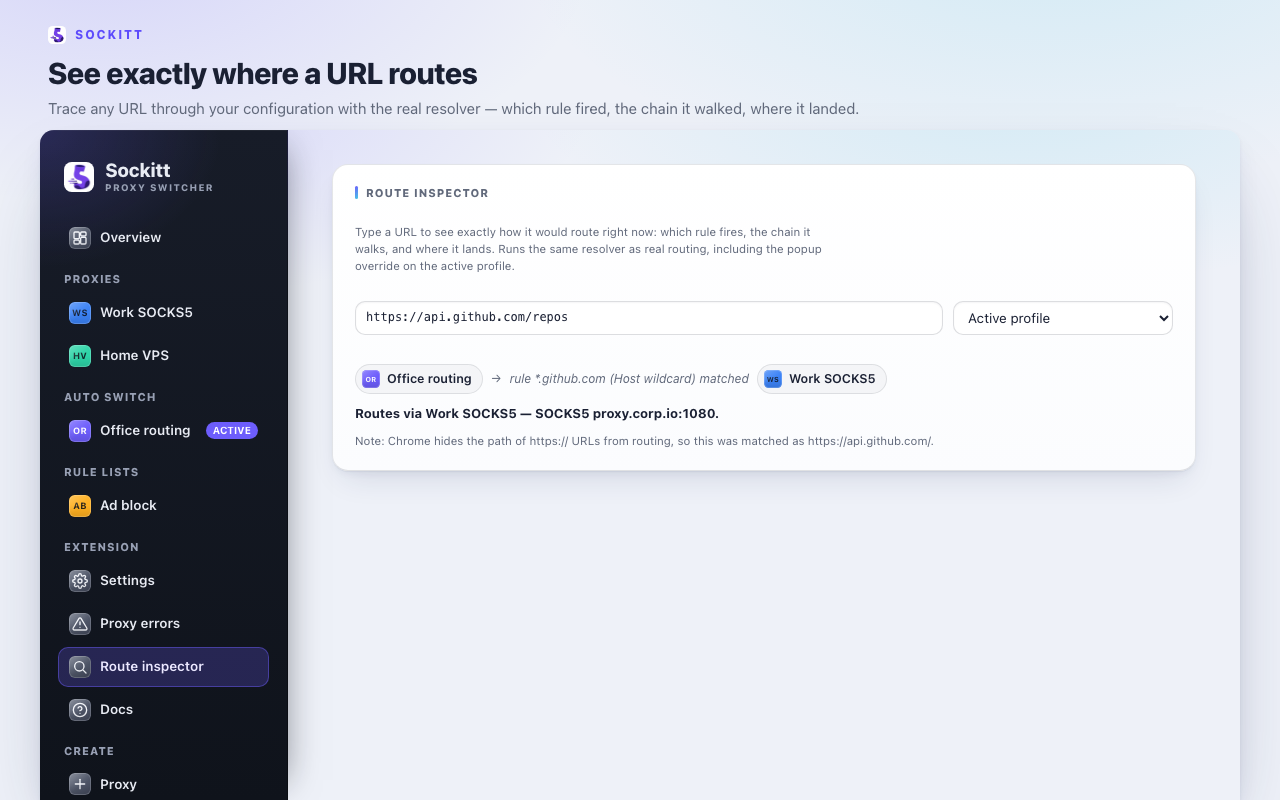
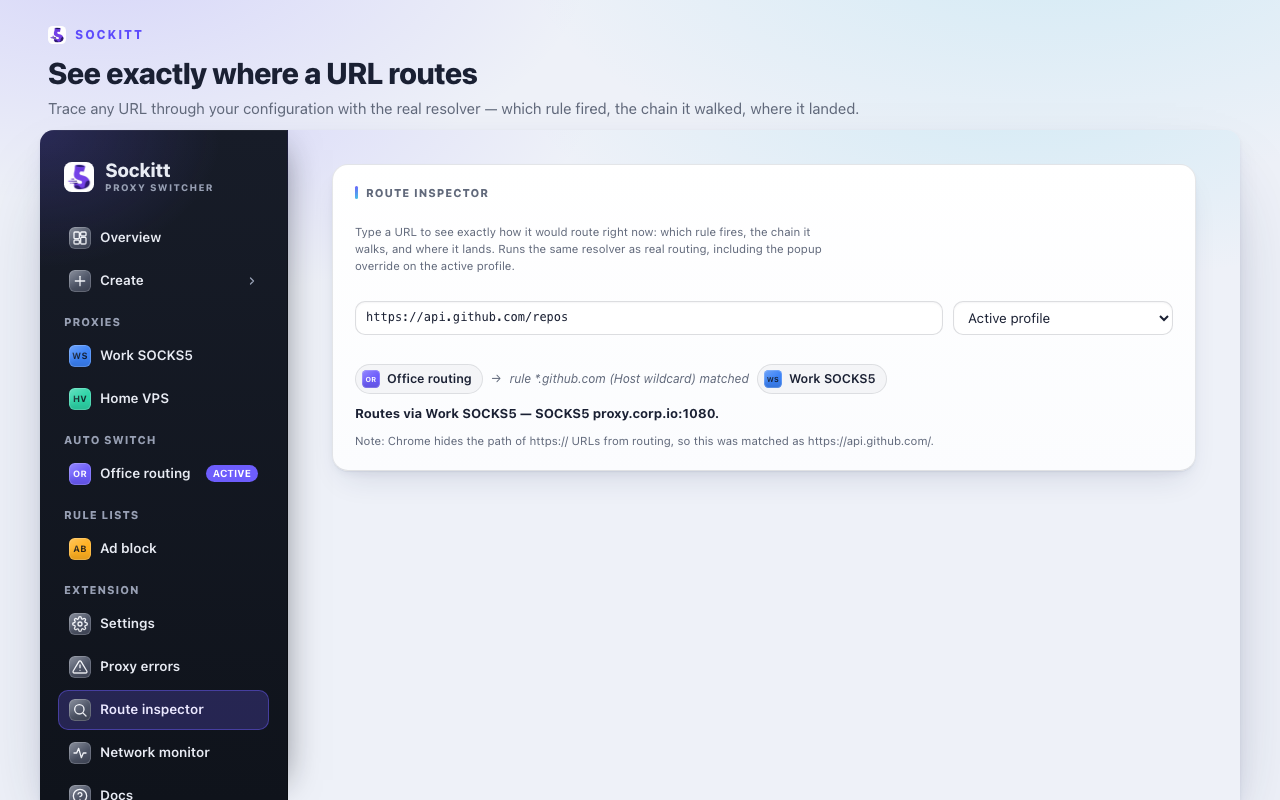
Bring the docs back in line, and stop the worker logging a refusal
The console error first. registerAuthListener tests whether
chrome.webRequest.onAuthRequired exists and then registers it with
asyncBlocking. That test was sound while webRequest only ever arrived
through AUTH_PERMS, which asks for it together with
webRequestAuthProvider — the catch there says as much. The network
monitor broke the pair by asking for webRequest alone, so the worker
registered a blocking listener it had no permission for and Chrome
refused it: "You do not have permission to use blocking webRequest
listeners." On every worker start, and immediately on granting, since
permissions.onAdded re-registers on a webRequest grant.

The monitor asks for both now. It never answers a challenge, but the
provider grants no access on its own and adds no warning the host access
has not already added, and the alternative was worse: the registration
has to happen in the worker's first synchronous turn or Chrome will not
wake it for a 407, and a permission check to guard it is asynchronous.

Then the documentation, which had fallen behind three releases.

PRIVACY.md said request-observing access was used "only to answer
HTTP/HTTPS proxy authentication challenges". That stopped being true when
the monitor shipped, and a privacy policy making a false exclusivity
claim is the worst kind of stale. It now describes what the monitor
observes, that nothing is stored or sent, and that leaving the page ends
it — and the no-browsing-history claim says where the monitor sits
[…]

Changed region(s): [[0.0312, 0.4375, 0.2188, 1.0], [0.0312, 0.3438, 0.1562, 0.4062]]

diff --git a/src/options/docs.ts b/src/options/docs.ts
@@ -177,9 +177,17 @@ function buildDocsPanel(onReleases: () => void): HTMLElement {
           ],
         ],
         [
-          'This session',
+          'Profile timeline',
           [
             'Which profile was active over the course of this browser session, with failures marked on the same time base. Session-scoped, like the error log: it starts fresh with the browser and is never written to your saved configuration.',
+          ],
+        ],
+        [
+          'Try a URL',
+          [
+            'The Route inspector in miniature, at the foot of the page: paste a URL and see where it lands without leaving the Overview. The sidebar’s ',
+            code('Route inspector'),
+            ' shows the full chain and lets you resolve against a profile other than the active one.',
           ],
         ],
       ]),
@@ -367,7 +375,7 @@ function buildDocsPanel(onReleases: () => void): HTMLElement {
           'Where the Route inspector answers for one URL you type, the ', code('Network monitor'), ' page answers for everything the browser actually asks for: each request as it happens, and which profile your rules route it through. Useful for the question a single lookup cannot settle — whether a rule is firing on the subresources a page pulls in, not just on its address bar.',
           el('br'),
           el('br'),
-          'It records only while the page is open, and only in that page. Nothing is written to disk, closing the tab discards the log, and leaving the page stops the recording — so it can never become a browsing history that Sockitt keeps. ', code('Stop'), ' ends it on demand, and detaches the listeners rather than quietly ignoring them; that choice is remembered, so a monitor you stopped stays stopped when you come back. It needs permission to observe requests, asked for the first time you open it and never used anywhere else in the extension.',
+          'It records only while the page is open, and only in that page. Nothing is written to disk, closing the tab discards the log, and leaving the page stops the recording — so it can never become a browsing history that Sockitt keeps. ', code('Stop'), ' ends it on demand, and detaches the listeners rather than quietly ignoring them; that choice is remembered, so a monitor you stopped stays stopped when you come back. It needs permission to observe requests, asked for the first time you open it. That request is the same pair the extension uses for proxy authentication, because Chromium ties the two together; the monitor itself only ever observes.',
           el('br'),
           el('br'),
           'Two columns deserve a note. ', el('b', {}, 'Routed via'), ' is computed, not observed: Chrome tells an extension that a request happened but never which proxy carried it, so this is the same resolver the Route inspector uses, applied to every request. ', el('b', {}, 'Size'), ' is the response’s declared ', code('Content-Length'), ' — streamed and chunked responses do not carry one and show ', code('—'), ', so it is not a measure of how much data a proxy has carried.',
@@ -411,7 +419,7 @@ function buildDocsPanel(onReleases: () => void): HTMLElement {
       terms([
         ['Guard proxy control', ['If another extension takes over the browser’s proxy settings, Sockitt re-applies its own (at most once every 30 seconds).']],
         ['Per-tab route badge', ['Shows which profile the current tab routes through as a small badge on the toolbar icon. It appears only where the route depends on the request — an Auto switch or rule-list profile; with a plain proxy or an alias the icon already names the destination, so the badge stays clear. Requires the optional ', code('tabs'), ' permission, which is requested when you enable it. A permission cannot travel inside a config, so importing a backup (or syncing from another browser) with the setting already on asks for it again — until it is granted, a banner on this page says the badge is inactive.']],
-        ['IP address lookups', ['The master switch for everything that contacts ', code('ipconfig.is'), ' — the popup’s exit-IP readout and the connection test. Off by default: Sockitt never reaches ', code('ipconfig.is'), ' until you turn it on (which requests access to it), and turning it off disables both. With it off, the only network requests Sockitt makes on its own are fetches of the rule-list URLs you configure.']],
+        ['IP address lookups', ['The master switch for everything that contacts ', code('ipconfig.is'), ' — the popup’s exit-IP readout, the Overview’s exit reading, and the connection test. Off by default: Sockitt never reaches ', code('ipconfig.is'), ' until you turn it on (which requests access to it), and turning it off disables both. With it off, the only network requests Sockitt makes on its own are fetches of the rule-list URLs you configure.']],
         ['Quick-added rules go to the bottom', ['Rules added from the popup are appended below existing rules. Turn off to give them top priority instead.']],
         ['Confirm before deleting', ['Ask for confirmation before a profile is deleted or everything is reset.']],
       ]),

diff --git a/src/options/network.ts b/src/options/network.ts
@@ -27,9 +27,24 @@ import { loadTempRules } from '../shared/state';
 /** Rows kept. Old ones fall off the top; the newest request always survives. */
 const MAX_ROWS = 500;
 
-/** webRequest sees nothing without host access, and it is optional here. */
+/**
+ * webRequest sees nothing without host access, and it is optional here.
+ *
+ * webRequestAuthProvider rides along even though the monitor never answers an
+ * auth challenge. The worker registers its onAuthRequired listener with
+ * asyncBlocking in its first synchronous turn — it has to, or Chrome will not
+ * wake it for a proxy 407 — and it can only test for the API being there, not
+ * for the permission behind it. Granting webRequest alone therefore made that
+ * registration fail on every worker start with "You do not have permission to
+ * use blocking webRequest listeners".
+ *
+ * The two have always been requested as a pair (AUTH_PERMS); this keeps that
+ * true. It costs nothing: the provider grants no access to anything, it only
+ * allows a challenge to be answered, and it adds no warning to the prompt that
+ * the host access has not already made.
+ */
 const MONITOR_PERMS: chrome.permissions.Permissions = {
-  permissions: ['webRequest'],
+  permissions: ['webRequest', 'webRequestAuthProvider'],
   origins: ['<all_urls>'],
 };
 

diff --git a/src/options/releases.ts b/src/options/releases.ts
@@ -28,9 +28,12 @@ interface Release {
 const RELEASES: Release[] = [
   {
     from: '1.20.0',
+    to: '1.20.1',
     date: '29 July 2026',
     title: 'A lighter sidebar',
     notes: [
+      'Turning the network monitor on made the worker log a permission error on every start. It asks for one more permission now — one it never uses — because Chromium ties it to the one that answers proxy authentication, and granting them apart broke that.',
+      'The documentation, the README and the privacy policy have caught up with the last few releases: the network monitor is described in all three, and the policy no longer says request-observing access is only ever used for proxy authentication.',
       'Create is one row that opens when you want it, sitting under Overview — it used to be a heading and four permanent rows at the foot of the sidebar, most of a screen of navigation spent on something you do rarely and placed as far from where you start as the sidebar allows.',
     ],
   },

diff --git a/src/options/options.css b/src/options/options.css
@@ -214,9 +214,14 @@ body {
      enough to clear AA once the hover state fills it. */
   --bmc-ink: #a92eff;
   justify-content: center;
-  gap: 8px;
-  margin-top: 8px;
-  padding: 7px 10px;
+  /* Hugs its label rather than spanning the sidebar. Full width it was the
+     largest object in the footer — a support link out-weighing the navigation
+     above it, which is the wrong way round. */
+  align-self: center;
+  gap: 7px;
+  margin-top: 10px;
+  padding: 5px 12px;
+  font-size: 11.5px;
   color: var(--text);
   background: color-mix(in srgb, var(--bmc) 18%, transparent);
   /* 75%, not 45%: the tinted fill is only 1.3:1 against the sidebar, so the
@@ -225,6 +230,7 @@ body {
   border: 1px solid color-mix(in srgb, var(--bmc) 75%, transparent);
   transition: background 0.15s, border-color 0.15s, color 0.15s;
 }
+.side-link.bmc svg { width: 13px; height: 13px; }
 .side-link.bmc .bmc-cup { color: #ffdd00; }
 .side-link.bmc:hover {
   background: var(--bmc-ink);

diff --git a/README.md b/README.md
@@ -51,7 +51,7 @@ script.
   active path picked out, a **config health** audit with one-click fixes
   (patterns that will not compile, rules buried under a catch-all, credentials
   without their permission, stale rule lists, reference loops), per-server
-  reachability, a session timeline, and an inline URL resolver. Everything on it
+  reachability, a profile timeline, and an inline URL resolver. Everything on it
   is derived from your own configuration — nothing watches your browsing.
 - **Proxy profiles.** SOCKS5, SOCKS4, HTTP, or HTTPS servers with a host, port,
   and per-profile bypass list, plus optional username/password authentication
@@ -77,6 +77,14 @@ script.
 - **Route inspector.** Trace any URL through your configuration with the same
   resolver real routing uses — which rule fired, the chain it walked, where it
   landed.
+- **Network monitor.** Where the inspector answers for one URL you type, this
+  answers for everything the browser actually asks for: each request as it
+  happens and the profile your rules route it through — including the
+  subresources a page pulls in, which is where a rule quietly not firing hides.
+  It records only while its page is open and only in that page: nothing is
+  written to disk, and closing or leaving the page discards the log and stops
+  the recording. Off until you open it, and it asks for the access it needs
+  then.
 - **Connection tests.** One click routes briefly through a proxy, measures the
   exit IP/country/latency (auth included), and restores your configuration. Like
   the exit-IP line, this uses the opt-in IP address lookups (off by default).
@@ -121,9 +129,9 @@ Opera, Vivaldi, and other Chromium browsers (Chrome 110+).
 ## Quick start
 
 1. Click the Sockitt icon, then **Manage profiles & rules**, open **Create** in
-   the sidebar and choose **Proxy**. Pick the protocol
-   and enter the host and port - for example a SOCKS5 `ssh -D 1080 myserver`
-   tunnel on `127.0.0.1:1080`, or an HTTP proxy with a username and password.
+   the sidebar and choose **Proxy**. Pick the protocol and enter the host and
+   port - for example a SOCKS5 `ssh -D 1080 myserver` tunnel on
+   `127.0.0.1:1080`, or an HTTP proxy with a username and password.
 2. Pick the profile in the popup. Everything now routes through it.
 3. For per-site routing, create an **Auto Switch** profile and activate it. As
    you browse, the popup shows where the current tab routes and lets you add or
@@ -152,6 +160,12 @@ Extra capabilities are strictly opt-in and requested only when you use them:
 - **HTTP/HTTPS proxy authentication** requests `webRequest`,
   `webRequestAuthProvider`, and all-sites access, which Chromium needs to answer
   proxy auth challenges. Sockitt asks when you set credentials.
+- **The Network monitor** requests the same grant for a different purpose:
+  observing requests so it can list them. It asks the first time you open the
+  page, records only in that page, and writes nothing to disk. An install that
+  never opens it never grants it. (It asks for `webRequestAuthProvider` too,
+  which it never uses — the two are requested as a pair so the worker's proxy
+  auth listener keeps working; the provider grants no access on its own.)
 - **IP address lookups** - the popup's exit-IP line and connection tests -
   request access to `ipconfig.is`, the IP-echo service they query. Off by
   default; enable them with one setting, which asks for access the first time.

diff --git a/PRIVACY.md b/PRIVACY.md
@@ -1,6 +1,6 @@
 # Sockitt Privacy Policy
 
-**Effective date:** 24 July 2026
+**Effective date:** 29 July 2026
 
 Sockitt is a browser extension that switches your browser between proxy
 servers. This policy explains what data the extension handles and what it does
@@ -45,6 +45,17 @@ ever sent to the developer or to any third party.
   never written to your saved configuration, and never synced. It records no
   credential and no page address, and nothing in it is transmitted anywhere —
   the "Copy report" button puts it on your own clipboard and nowhere else.
+- **The network monitor (optional, off until you open it)** - the Network
+  monitor page shows each request your browser makes while that page is open,
+  and which of your profiles routes it. To do that it observes request URLs.
+  Nothing is written to disk: the list lives in that page only, closing or
+  leaving the page discards it and stops the recording, and `Stop` detaches the
+  observers outright. Nothing from it is stored, synced, or transmitted
+  anywhere. The permission it needs is requested the first time you open the
+  page, and an install that never opens it never grants it. (The request
+  includes `webRequestAuthProvider`, which the monitor never uses: it is
+  requested with `webRequest` as a pair so that proxy authentication keeps
+  working, and it grants no access to anything on its own.)
 - **The active tab's address** - when you open the popup (or enable the
   optional per-tab route badge), Sockitt reads the current tab's URL to show
   which proxy that page will use and to let you add or override a rule for it.
@@ -83,7 +94,9 @@ ever sent to the developer or to any third party.
 
 ## What the extension does not do
 
-- It does not collect or transmit your browsing history.
+- It does not collect or transmit your browsing history. The Network monitor
+  shows requests as they happen on its own page, but records nothing to disk,
+  sends nothing anywhere, and stops when you leave the page.
 - It does not read, record, or modify the content of the pages you visit.
 - It does not contain analytics, telemetry, crash reporting, or advertising.
 - With IP address lookups off (the default), it sends no data to the developer
@@ -107,9 +120,10 @@ Sockitt requests only the permissions its features need. By default:
 `activeTab` (read the current tab's URL in the popup), and `alarms` (schedule
 rule-list refreshes). Optional permissions are requested only when you turn on
 the feature that needs them: `tabs` (per-tab route badge, and the Overview's
-tab breakdown), `webRequest` +
-`webRequestAuthProvider` + host access (only to answer HTTP/HTTPS proxy
-authentication challenges with your saved credentials), and access to
+tab breakdown), `webRequest` + `webRequestAuthProvider` + host access (to
+answer HTTP/HTTPS proxy authentication challenges with your saved credentials,
+and — separately — for the Network monitor to observe requests while its page
+is open), and access to
 `ipconfig.is` (only for IP address lookups — the exit-IP line and connection
 test — which are off by default). Sockitt requests no host permissions by
 default.

diff --git a/docs/development.md b/docs/development.md
@@ -45,7 +45,9 @@ src/
   shared/ui.ts           el() DOM helper and toast
   background.ts          service worker: the only chrome.proxy caller
   popup/                 popup.html / .ts / .css
-  options/               options UI, settings, and docs.ts (in-app docs)
+  options/               options UI: dashboard.ts (Overview), network.ts
+                         (network monitor), docs.ts (in-app docs),
+                         releases.ts (release history), settings, editors
   theme.css              design tokens shared by both pages
 scripts/gen-icons.mjs    logo-source.png to PNG icon set (ImageMagick)
 scripts/gen-store-shots.mjs  README + Web Store screenshots, captured from the built UI
